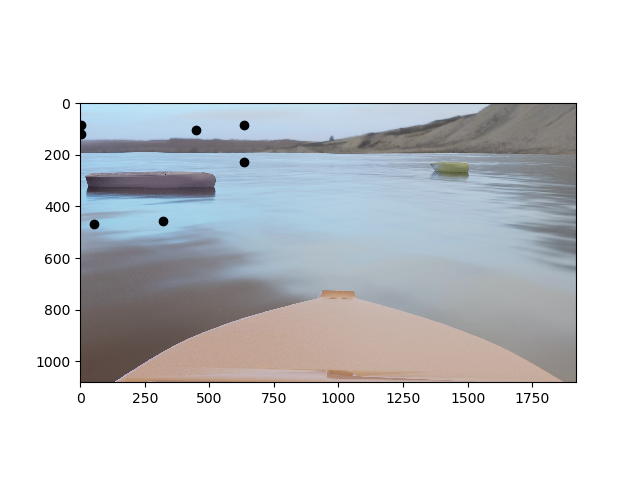
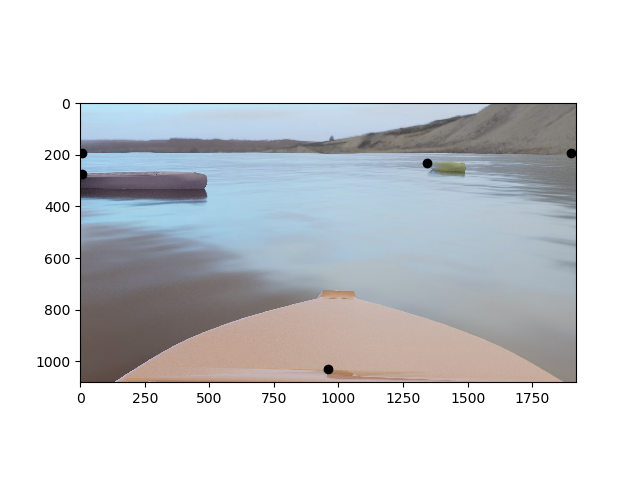
Skalierung in Plot angepasst Zeitschirtte passen noch nicht

diff --git a/TestFile/Projekt/ObjectHandler.py b/TestFile/Projekt/ObjectHandler.py
@@ -26,8 +26,8 @@ class ObjectHandler:
         self.ImageBaseName: str = None
         self.ImageFileType: str = '.jpg'
         self.Img: ndarray 
-        #self.image_height: int
-        #self.image_width: int
+        self.image_height: int
+        self.image_width: int
 
     def setDebugLevel(self, debugLevel: int = 0) -> None:
         self.DebugLevel = debugLevel
@@ -57,8 +57,11 @@ class ObjectHandler:
     def getImg(self) -> ndarray:
         return self.Img
 
-    #def getImgHeight(self) -> int:
+    def getImgHeight(self) -> int:
+        return self.image_height
 
+    def getImgWidth(self) -> int:
+        return self.image_width
 
     # return list with object states for all time stemps
     def getObjectStatesList(self) -> List:
@@ -86,10 +89,13 @@ class ObjectHandler:
         return self.ObjectStates[-1]
 
     # update the object states for the next time step
-    def updateObjectStates(self, plot: bool = False) -> bool:
+    def updateObjectStates(self, plot: bool = True) -> bool:
 
         detector = ObstacleDetector()
         img, folder = None, '.'
+
+        self.image_height = detector._h
+        self.image_width = detector._w
 
         # get current max time step and add 1
         currentTimeStep = self.getTimeStepCount() + 1

diff --git a/TestFile/Projekt/test_gmphd_pic.py b/TestFile/Projekt/test_gmphd_pic.py
@@ -88,8 +88,8 @@ phd = GaussianMixturePHD(
 #        print('updated states for time step ' + str(i))
 #    else:
 #        print('could not update states for time step ' + str(i))
-#    #print('last object states:')
-#    #print(ObjectHandler.getLastObjectStates())
+#    print('last object states:')
+#    print(ObjectHandler.getLastObjectStates())
 #    #cv2.waitKey(1000)
 
 #print('---------------------------------------')
@@ -106,7 +106,7 @@ phd = GaussianMixturePHD(
 #    print('---------------------------------------')
 
 def gm_phd(phd, ObjectHandler) -> ndarray:
-    k = 0   #Zeitschritt
+    k = 1   #Zeitschritt
     pictures_availiable = True
     fig = plt.figure()
     est_phd: ndarray = []
@@ -114,7 +114,7 @@ def gm_phd(phd, ObjectHandler) -> ndarray:
     while pictures_availiable == True: #While: 
         try:
             ObjectHandler.updateObjectStates()
-            current_measurement_k = ObjectHandler.getObjectStates(k+1) #Daten der Detektion eines Zeitschrittes 
+            current_measurement_k = ObjectHandler.getObjectStates(k) #Daten der Detektion eines Zeitschrittes 
             #print(current_measurement_k)
             #print([current_measurement_k[0][0]])
         except InvalidTimeStepError as e:

diff --git a/TestFile/Projekt/phd_plot.py b/TestFile/Projekt/phd_plot.py
@@ -25,6 +25,7 @@ def plot_PHD_realpic(ObjectHandler,pos_phd,meas_k,k) -> None:
 
     cwd = os.getcwd()
     pfad = cwd +'\ObjektDetektion'
+    # Anpassung für Lukas
     pfad = 'C:/Users/lukas/source/repos/PercyDwn/MaritimeHindernisse/TestFile/Projekt/ObjektDetektion/GM_PHD'
 
     if k == 0:
@@ -33,13 +34,21 @@ def plot_PHD_realpic(ObjectHandler,pos_phd,meas_k,k) -> None:
             os.remove(os.path.join(pfad, f))   
     name = '\Bild_'+ str(k)+'.png'
     real_pic = plt.figure()
+
     img = ObjectHandler.getImg()
+    img_h, img_w,_  = img.shape
+    obj_h = ObjectHandler.getImgHeight()
+    obj_w = ObjectHandler.getImgWidth()
+
+    #obj_h = 480
+    #obj_w = 640
+
     plt.imshow(img)
     for m in range(len(meas_k)):       
-        plt.plot(meas_k[m][0],meas_k[m][1],'ro',color='black')
+        plt.plot(meas_k[m][0]*img_w/obj_w, meas_k[m][1]*img_h/obj_h,'ro',color='black')
     n = len(pos_phd[k-1])
     for i in range(n):
-        plt.plot(pos_phd[k-1][i][0],pos_phd[k-1][i][1],'r+')
+        plt.plot(pos_phd[k-1][i][0]*img_w/obj_w,pos_phd[k-1][i][1]*img_h/obj_h,'r+')
     real_pic.savefig(pfad + name)
     
     #def plot_GNN_realpic(ObjectHandler,pos_k,k,N, real_pic,meas_k):

diff --git a/TestFile/Projekt/test_gmphd.py b/TestFile/Projekt/test_gmphd.py
@@ -111,11 +111,12 @@ meas.append([array([12.]), array([20.]), array([38.]), array([26.]), array([-8.]
 for z in meas:
     phd.predict()
     phd.correct(z)
+    phd.prune(array([0.4]), array([5]), 10)
     pos_phd.append(phd.extract())
     #print(phd.extract())
     #print('--------------')
     #pruning
-    phd.prune(array([0.4]), array([300]), 10)
+    
 
 #Plots
 # ------------------------
